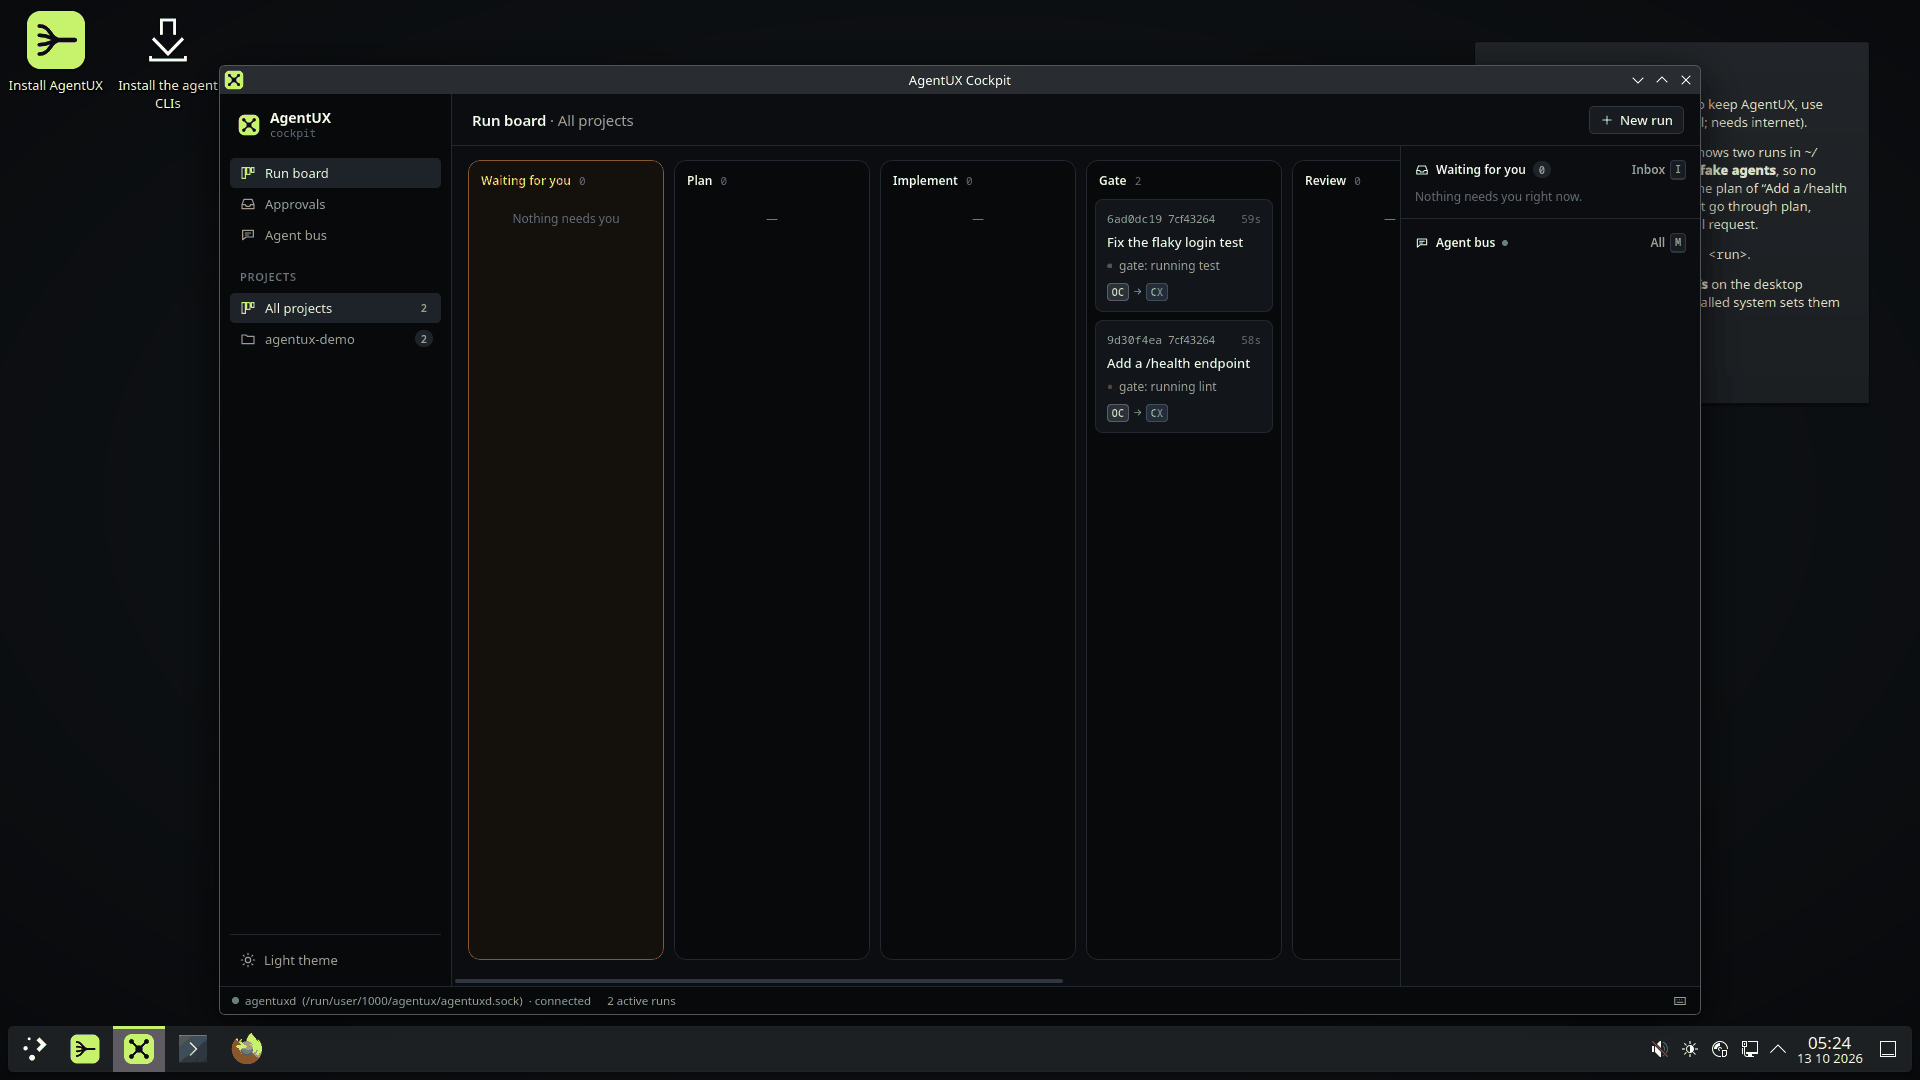
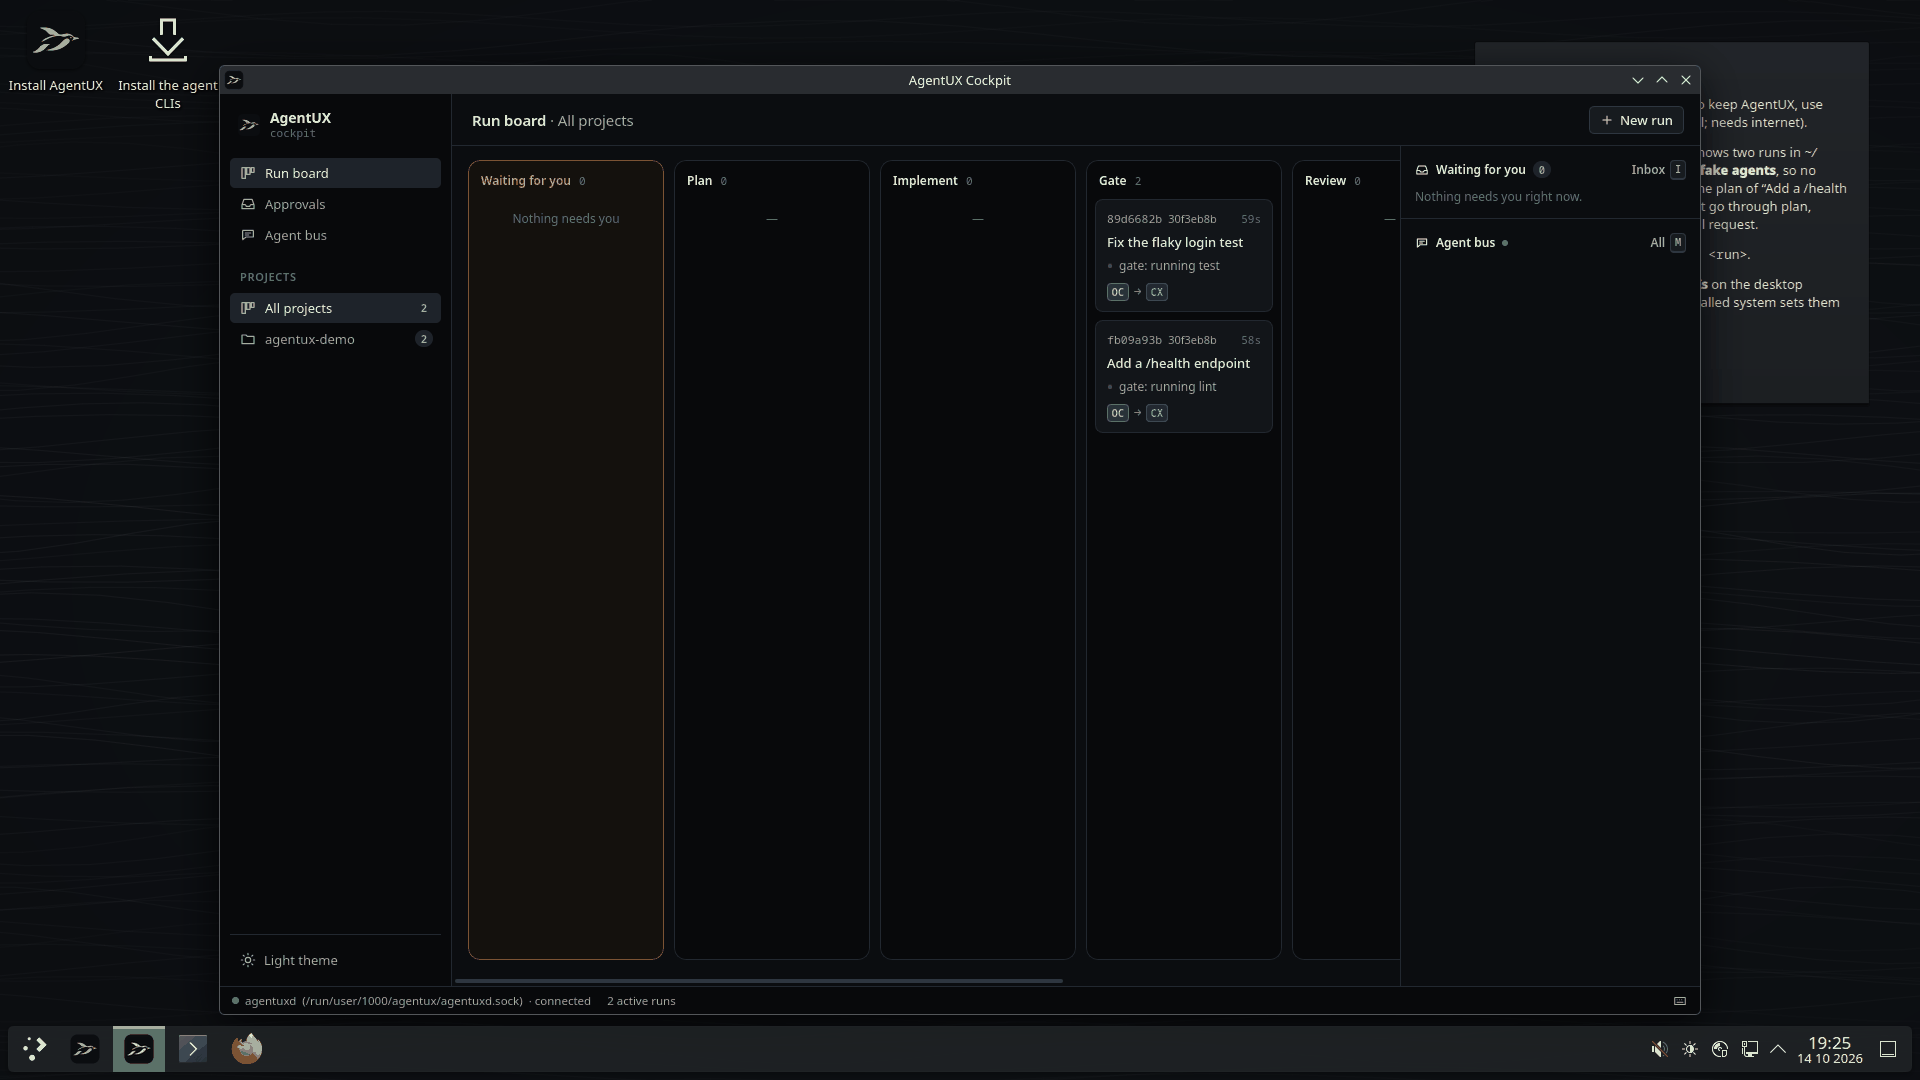
README: screenshots with the penguin brand
Recaptured from the live ISO run on main: the cockpit, the branded
installer and first boot, plus the swimming-penguin boot animation.

diff --git a/README.md b/README.md
@@ -7,7 +7,7 @@
 
 AgentUX is a Linux distribution for developers who use coding agents from several vendors. It ships the providers' own CLI harnesses — Claude Code, Codex, OpenCode, Antigravity CLI — already installed and wired together: one interface on top of all of them, an agent bus so they can talk to each other, and an orchestrator that takes work from issue to reviewed pull request.
 
-> **Status:** pre-release (agentux-core 0.4.2 and agentux-desktop 0.4.1, in the daily images). A bootable, signed image exists for x86_64 and aarch64, in two variants (KDE Plasma and Hyprland), with `agentuxd`, `aux`, the cockpit and every vendor CLI installed. Runs go from prompt to pull request through real harness sessions over ACP, agents talk over the agent bus, any session opens in its vendor's TUI, and gate checks can run in rootless Podman.
+> **Status:** pre-release (agentux-core 0.4.2 and agentux-desktop 0.4.5, in the daily images). A bootable, signed image exists for x86_64 and aarch64, in two variants (KDE Plasma and Hyprland), with `agentuxd`, `aux`, the cockpit and every vendor CLI installed. Runs go from prompt to pull request through real harness sessions over ACP, agents talk over the agent bus, any session opens in its vendor's TUI, and gate checks can run in rootless Podman.
 >
 > Verified in CI: both variants build and pass a first-login smoke test on amd64 and arm64; the Plasma image boots nightly under QEMU/KVM on x86_64 and takes a fake-agent run to a pull request; image signatures are checked against the policy installed systems enforce.
 >
@@ -15,11 +15,11 @@ AgentUX is a Linux distribution for developers who use coding agents from severa
 
 ![The AgentUX cockpit on the live ISO: two demo runs, one waiting for plan approval](docs/screenshots/cockpit-plan-approval.png)
 
-| Boot | First boot | Runs in progress |
+| Boot | Installer | First boot |
 |---|---|---|
-| [![AgentUX boot splash](docs/screenshots/boot-splash.png)](docs/screenshots/boot-splash.png) | [![First-boot setup over the AgentUX wallpaper](docs/screenshots/first-boot.png)](docs/screenshots/first-boot.png) | [![Two runs in the gate step](docs/screenshots/cockpit-runs.png)](docs/screenshots/cockpit-runs.png) |
+| [![The penguin swimming in the boot splash](docs/screenshots/boot-animation.gif)](docs/screenshots/boot-animation.gif) | [![The AgentUX installer on the live ISO](docs/screenshots/installer.png)](docs/screenshots/installer.png) | [![First-boot setup over the AgentUX wallpaper](docs/screenshots/first-boot.png)](docs/screenshots/first-boot.png) |
 
-These are captured by CI: the live ISO and installer tests boot the real images in QEMU and take the screenshots (demo runs use fake agents).
+The screenshots are captured by CI: the live ISO and installer tests boot the real images in QEMU (demo runs use fake agents). The boot animation is rendered from the Plymouth theme; the login splash plays the same scene.
 
 ## Try it
 
